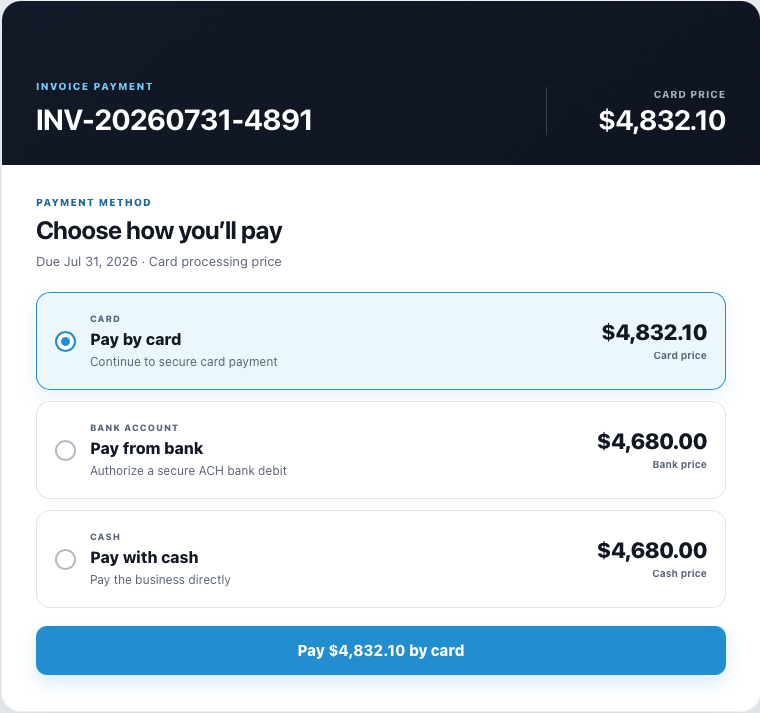
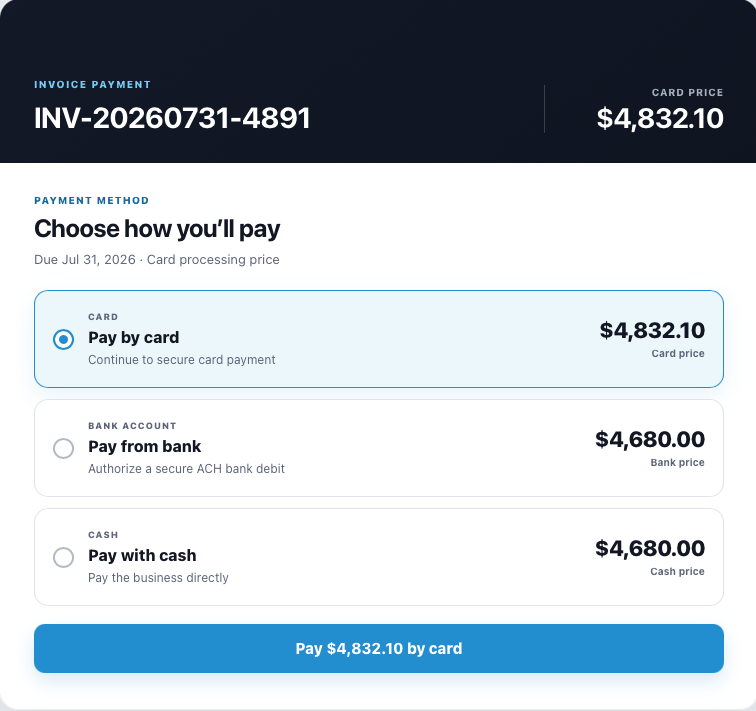
Polish ACH image and activation note

diff --git a/app/page.tsx b/app/page.tsx
@@ -31,7 +31,7 @@ const features: Feature[] = [
     image: "/features/ach-payment.png",
     alt: "Customer-facing invoice payment page with card, bank account, and cash choices",
     side: "right",
-    note: "ACH availability requires account configuration and approval.",
+    note: "Contact Carreon Payments to have ACH enabled on your Talli account.",
   },
   {
     id: "logins",

diff --git a/app/globals.css b/app/globals.css
@@ -375,8 +375,12 @@ a {
 
 .feature-note {
   margin: 28px 0 0;
-  color: #686f7a;
-  font-size: 11px;
+  max-width: 480px;
+  padding-left: 14px;
+  border-left: 2px solid rgba(32, 167, 230, 0.55);
+  color: #b4bbc5;
+  font-size: 15px;
+  line-height: 1.5;
 }
 
 .next-feature {
